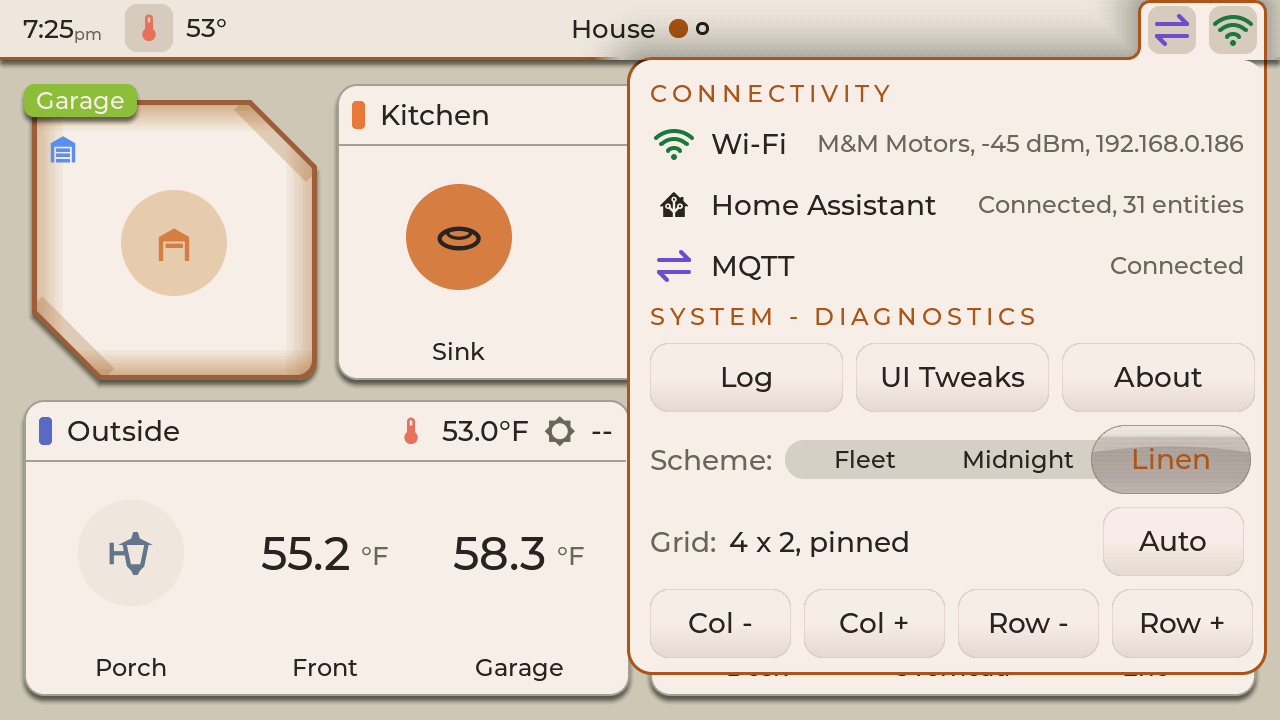
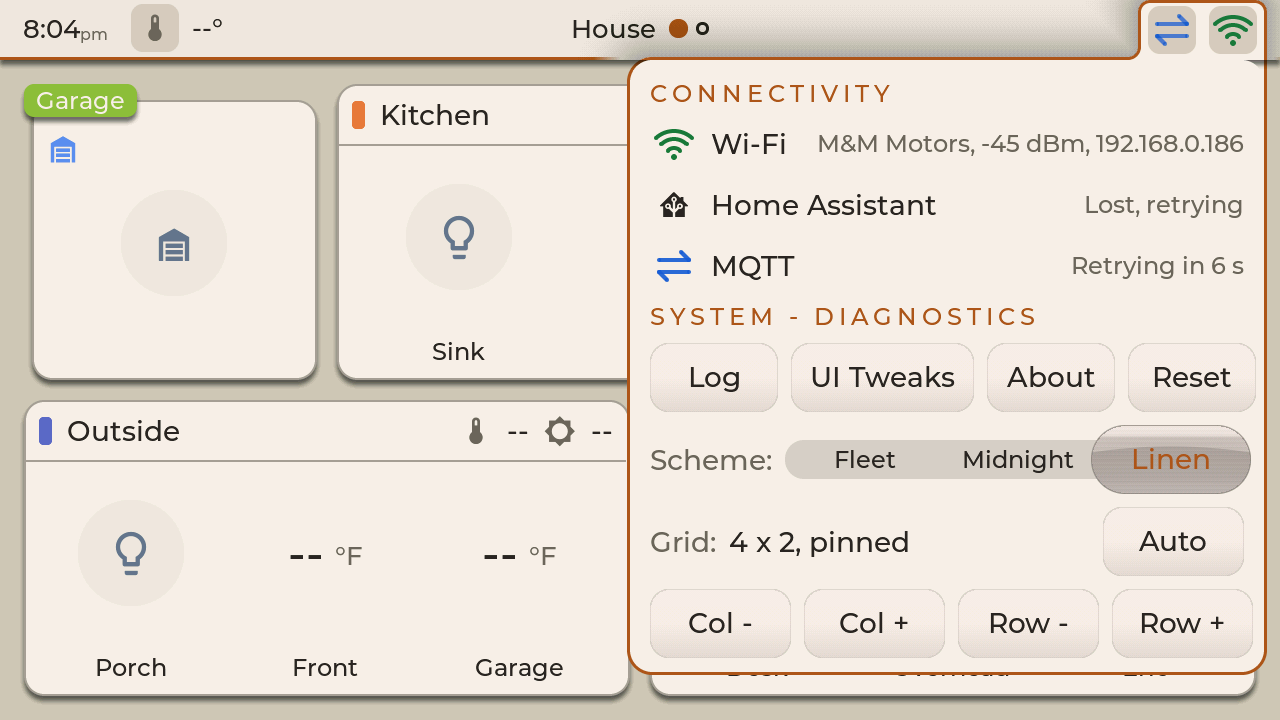
feat(ui): 2.11 round 9 - a development Reset in the system panel
The dashboard and its clusters back to the compiled ones (the owner's
round-7 ask): every card made on the board deleted (page / in entries),
every hide and move undone (removed, hidden), group cards' slots and
present as compiled, every page's kept layout forgotten so each arranges
itself again. Looks, schemes, UI Tweaks and the pins stay.

- CardAdded::resetToCompiled() (a dry run counts), GUIManager::
  resetDashboard() takes the page down, resets, builds it again - no
  restart.
- The system panel's SYSTEM - DIAGNOSTICS row: Log, UI Tweaks, About,
  Reset; a kit dialog says what would go.
- /popup?dash=1|2 and /popup?grid=a|cu|cd|ru|rd (DEBUG_POPUP) drive the
  Reset and the grid pins from a PC.
- Run on a test copy of the P4_5's settings (8 cards, 7 hides and moves,
  4 cluster settings), the file put back: no difference.

LESSONS: the 1060 boot-loops on a software restart (its Wi-Fi co-processor);
restore it without reboot=1 and watchdog-reset it. TEST_2.11 round 9
section 2; HTTP_REFERENCE.

diff --git a/src/UI/Panel_System.cpp b/src/UI/Panel_System.cpp
@@ -47,6 +47,17 @@ static void colUpCb(lv_event_t *)   { if (s_self) s_self->requestGrid(Panel_Syst
 static void rowDownCb(lv_event_t *) { if (s_self) s_self->requestGrid(Panel_System::GridAction::ASPECT_DOWN); }
 static void rowUpCb(lv_event_t *)   { if (s_self) s_self->requestGrid(Panel_System::GridAction::ASPECT_UP); }
 static void gridAutoCb(lv_event_t *) { if (s_self) s_self->requestGrid(Panel_System::GridAction::GRID_AUTO); }
+
+// The development Reset's question (2.11 round 9), on the top layer over the panel.
+static lv_obj_t *s_confirm = nullptr;
+static void confirmClose() {
+    if (s_confirm) { lv_obj_delete(s_confirm); s_confirm = nullptr; }
+}
+static void dashCancelCb(lv_event_t *) { lv_async_call([](void *) { confirmClose(); }, nullptr); }
+static void dashResetCb(lv_event_t *) {
+    lv_async_call([](void *) { confirmClose(); if (s_self) s_self->confirmDashReset(); }, nullptr);
+}
+static void dashAskCb(lv_event_t *) { lv_async_call([](void *) { if (s_self) s_self->askDashReset(); }, nullptr); }
 static void schemeChosen(uint8_t i) { if (s_self) s_self->chooseScheme(i); }
 
 void Panel_System::init(lv_obj_t* parent, Panel_Header* headerRef) {
@@ -129,11 +140,16 @@ void Panel_System::buildContent() {
 
     // --- SYSTEM - DIAGNOSTICS: development tools for now (D-17) ------------
     Kit::drawerTitle(_ui_content, "SYSTEM - DIAGNOSTICS");
+    // Reset (2.11 round 9, the development Reset) asks first: its dialog says
+    // what would go.
     lv_obj_t *r = Kit::drawerRow(_ui_content);
-    const int32_t w3 = (inner - 2 * gap) / 3;
+    const int32_t w4 = (inner - 3 * gap) / 4;
+    const int32_t wT = LV_MAX(w4, Kit::textW("UI Tweaks", UI::type().NAME) + 2 * UI::mm(UI::shape().S5));
+    const int32_t w3 = (inner - 3 * gap - wT) / 3;   // the other three share what UI Tweaks leaves
     Kit::button(r, Kit::ButtonRole::BTN_CANCEL, "Log", w3, btnH, logCb);
-    Kit::button(r, Kit::ButtonRole::BTN_CANCEL, "UI Tweaks", w3, btnH, tweaksCb);
+    Kit::button(r, Kit::ButtonRole::BTN_CANCEL, "UI Tweaks", wT, btnH, tweaksCb);
     Kit::button(r, Kit::ButtonRole::BTN_CANCEL, "About", w3, btnH, aboutCb);
+    Kit::button(r, Kit::ButtonRole::BTN_CANCEL, "Reset", w3, btnH, dashAskCb);
 
     // "Scheme:" and one of three (round 4: the Status bar toggle went - the page
     // panel's Show / Hide is the one way to hide the header).
@@ -151,7 +167,6 @@ void Panel_System::buildContent() {
 
     // The page's grid (2.11 round 9): pinned counts or the arranger's choice, in
     // words, and Auto to take the pins away; then the counts, each press a pin.
-    const int32_t w4 = (inner - 3 * gap) / 4;
     r = Kit::drawerRow(_ui_content);
     lv_label_set_text(Kit::label(r, Kit::KitStyle::KS_LABEL_NAME_DIM), "Grid:");
     _gridVal = Kit::label(r, Kit::KitStyle::KS_LABEL_NAME);
@@ -164,6 +179,34 @@ void Panel_System::buildContent() {
     Kit::button(r, Kit::ButtonRole::BTN_CANCEL, "Col +", w4, btnH, colUpCb);
     Kit::button(r, Kit::ButtonRole::BTN_CANCEL, "Row -", w4, btnH, rowDownCb);
     Kit::button(r, Kit::ButtonRole::BTN_CANCEL, "Row +", w4, btnH, rowUpCb);
+}
+
+void Panel_System::askDashReset() {
+    confirmClose();
+    if (!_expanded) return;
+    static char detail[200];   // the dialog keeps a pointer to its words
+    char brief[48];
+    detail[0] = '\0';
+    if (_dashText) _dashText(brief, sizeof(brief), detail, sizeof(detail));
+    Kit::DialogSpec d = {};
+    d.role    = Kit::DialogRole::DLG_DESTRUCTIVE;
+    d.title   = "Reset the dashboard?";
+    d.body[0] = "The cards and clusters go back to how they were built: cards made on this board are "
+                "deleted, hidden and moved cards come back, clusters lose added members and header "
+                "changes, and every page arranges itself again. Names, labels, tap actions, colors, "
+                "schemes, UI Tweaks and grid pins stay.";
+    d.body[1] = detail[0] ? detail : nullptr;
+    d.buttons[0] = { "Cancel", Kit::ButtonRole::BTN_CANCEL, dashCancelCb };
+    d.buttons[1] = { "Reset", Kit::ButtonRole::BTN_DESTRUCTIVE, dashResetCb };
+    d.nButtons = 2;
+    d.width    = LV_MIN(lv_obj_get_width(lv_screen_active()) * 3 / 4, UI::mm(UI::shape().W_DIALOG_MAX));
+    d.outside  = dashCancelCb;
+    s_confirm = Kit::dialog(d);
+}
+
+void Panel_System::confirmDashReset() {
+    close();
+    if (_onDashReset) _onDashReset();
 }
 
 void Panel_System::chooseScheme(uint8_t i) {
@@ -204,6 +247,7 @@ void Panel_System::toggle() {
         _connMs = millis();
         Kit::drawerOpen(_drawer);
     } else {
+        confirmClose();   // the Reset's question goes with the panel
         Kit::drawerClose(_drawer, true);
     }
 }

diff --git a/src/GUIManagerTweaks.cpp b/src/GUIManagerTweaks.cpp
@@ -9,6 +9,7 @@
 #include <stdlib.h>
 #include <string.h>
 #include "Settings.h"
+#include "Cards/CardAdded.h"     // the development Reset (round 9)
 #include "Cards/CardIcons.h"     // cardLabelMode(), cardSetLabelMode()
 #include "Cards/CardPopup.h"
 #include "UI/Sheet.h"            // windowCloseMs(), sheetBeside()
@@ -108,6 +109,38 @@ void GUIManager::saveGrid() {
     }
     rebuildDashboard();
     Serial.printf("[UI] grid pins -> %u x %u (0: the arranger's)\n", (unsigned)_pinCols, (unsigned)_pinRows);
+}
+
+// --- The development Reset (the system panel's, 2.11 round 9) ----------------------
+// THE DASHBOARD AND ITS CLUSTERS BACK TO THE COMPILED ONES (the owner: "a Reset
+// button would help during development"): CardAdded's reset - every card made
+// here deleted, every hide and move undone, the clusters' members and header
+// slots as built - and every page's kept arrangement forgotten, so each arranges
+// itself again. The looks, the schemes, UI Tweaks and the pins stay. The page is
+// taken down first: a card points at a record CardAdded reads again.
+void GUIManager::resetDashboard() {
+    savePageState();
+    destroyDashboard();
+    CardAdded::resetToCompiled(true);
+    for (uint8_t i = 0; i < _nPages; i++)
+        if (_pages[i].spec && _pages[i].spec->slug) Settings::setPage(_pages[i].spec->slug, "layout", nullptr);
+    Settings::save();
+    CardAdded::takeChanged();   // built now, not again on the next pass
+    rebuildDashboard();
+}
+
+// The system panel's Dashboard line, and the dialog's count of what goes.
+void GUIManager::dashboardText(char *brief, size_t nb, char *detail, size_t nd) {
+    const CardAdded::ResetCount c = CardAdded::resetToCompiled(false);
+    const unsigned all = (unsigned)c.made + c.hidden + c.members + c.clusters;
+    if (!all) snprintf(brief, nb, "as built");
+    else      snprintf(brief, nb, "%u change%s", all, all == 1 ? "" : "s");
+    if (!all) snprintf(detail, nd, "Nothing here differs from the dashboard as built.");
+    else      snprintf(detail, nd, "On this board now: %u card%s made here, %u hidden or moved, %u cluster "
+                                   "member%s hidden or moved out, %u cluster setting%s.",
+                       (unsigned)c.made, c.made == 1 ? "" : "s", (unsigned)c.hidden,
+                       (unsigned)c.members, c.members == 1 ? "" : "s",
+                       (unsigned)c.clusters, c.clusters == 1 ? "" : "s");
 }
 
 // --- The card looks (UI Tweaks) ----------------------------------------------------

diff --git a/src/Cards/CardAdded.cpp b/src/Cards/CardAdded.cpp
@@ -449,4 +449,58 @@ bool takeChanged() {
     return c;
 }
 
+namespace {
+// The ids carrying a key, collected first: an entry is never changed while the
+// file is being walked.
+constexpr uint8_t RESET_IDS = 64;
+struct Ids { char id[RESET_IDS][CARD_ID_MAX + 1]; uint8_t n; };
+void collect(const char *id, const char *, void *p) {
+    Ids &x = *(Ids *)p;
+    if (x.n < RESET_IDS) copy(x.id[x.n++], sizeof(x.id[0]), id);
+}
+}  // namespace
+
+ResetCount resetToCompiled(bool apply) {
+    ResetCount c = {};
+    Ids *ids = new Ids();   // ~2.6 KB, for the moment it takes
+    if (!ids) return c;
+    // Cards made here: on a page ("page") or in a cluster ("in"), deleted whole.
+    static const char *const MADE[] = { "page", "in" };
+    for (const char *key : MADE) {
+        ids->n = 0;
+        Settings::forEachCardWith(key, collect, ids);
+        for (uint8_t i = 0; i < ids->n; i++) {
+            c.made++;
+            if (apply) Settings::dropCard(ids->id[i]);
+        }
+    }
+    // Then what was done to the compiled ones: hidden or moved off a page, a
+    // member hidden or moved out, a group card's slots and presentation.
+    struct Undo { const char *key; uint8_t ResetCount::*count; };
+    static const Undo UNDO[] = {
+        { "removed", &ResetCount::hidden }, { "hidden", &ResetCount::members },
+        { "slots", &ResetCount::clusters }, { "present", &ResetCount::clusters },
+    };
+    for (const Undo &u : UNDO) {
+        ids->n = 0;
+        Settings::forEachCardWith(u.key, collect, ids);
+        for (uint8_t i = 0; i < ids->n; i++) {
+            char v[4];
+            const char *id = ids->id[i];
+            if (Settings::card(id, "page", v, sizeof(v)) || Settings::card(id, "in", v, sizeof(v))) continue;   // made here: counted above
+            c.*u.count += 1;
+            if (apply) Settings::setCard(id, u.key, nullptr);
+        }
+    }
+    delete ids;
+    if (apply) {
+        begin(s_compiled);   // the records again: none made here now
+        s_changed = true;
+        Serial.printf("[CardAdded] reset to the compiled dashboard: %u made here deleted, %u hidden or moved back, "
+                      "%u members, %u cluster settings\n", (unsigned)c.made, (unsigned)c.hidden,
+                      (unsigned)c.members, (unsigned)c.clusters);
+    }
+    return c;
+}
+
 }  // namespace CardAdded

diff --git a/src/GUIManagerHeader.cpp b/src/GUIManagerHeader.cpp
@@ -348,6 +348,26 @@ const char *GUIManager::headerDebug(const char *slotName, int glyphs, int pageHd
         if (_pnlSystem.isExpanded()) _pnlSystem.close();
         return "slot: closed";
     }
+    // /popup?dash=1|2 (2.11 round 9): the development Reset - 1 its dialog, over
+    // the system panel; 2 done without asking (Saved). /popup?grid=: the panel's
+    // Auto (a) and Col / Row (cu, cd, ru, rd) - each Saved, as on the glass.
+    if (!strncmp(slotName, "dash", 4)) {
+        if (slotName[4] == '2') { resetDashboard(); return "dashboard: reset to the compiled one (saved)"; }
+        closeSlotPanel(false);
+        if (!_pnlSystem.isExpanded()) _pnlSystem.toggle();
+        _pnlSystem.askDashReset();
+        return "dashboard: the Reset's dialog";
+    }
+    if (!strncmp(slotName, "grid", 4)) {
+        const char *g = slotName + 4;
+        if      (!strcmp(g, "a"))  gridAuto();
+        else if (!strcmp(g, "cu")) nudgeColumns(+1);
+        else if (!strcmp(g, "cd")) nudgeColumns(-1);
+        else if (!strcmp(g, "ru")) nudgeRows(+1);
+        else if (!strcmp(g, "rd")) nudgeRows(-1);
+        snprintf(out, sizeof(out), "grid pins: %u x %u (0: the arranger's; saved)", (unsigned)_pinCols, (unsigned)_pinRows);
+        return out;
+    }
     // /popup?scheme=N: the scheme on every page, as the system panel shows it,
     // NOT saved - a capture leaves the owner's choice in the file.
     if (!strncmp(slotName, "scheme", 6)) {

diff --git a/include/UI/Panel_System.h b/include/UI/Panel_System.h
@@ -90,6 +90,14 @@ public:
     void setGridText(GridText cb) { _gridText = cb; }
     void refreshGrid();
 
+    // THE DEVELOPMENT RESET (2.11 round 9): SYSTEM - DIAGNOSTICS' Reset and the
+    // dialog that asks first - `detail` is its count of what goes ("brief", "as
+    // built" / "5 changes", for a line when there is room for one).
+    using DashText = std::function<void(char *brief, size_t nBrief, char *detail, size_t nDetail)>;
+    void setDashboard(DashText text, Action onReset) { _dashText = text; _onDashReset = onReset; }
+    void askDashReset();         // the dialog
+    void confirmDashReset();     // its Reset: the panel closes, GUIManager resets
+
     // CONNECTIVITY's sources: the two glyphs' managers, and its three lines'
     // words - Wi-Fi, Home Assistant, MQTT - asked once a second while it shows.
     void setLinks(ConnectivityManager *conn, MqttManager *mqtt) { _conn = conn; _mqtt = mqtt; }
@@ -133,6 +141,8 @@ private:
     lv_obj_t *_connVal[3] = {};                      // Wi-Fi, HA, MQTT: their words
     lv_obj_t *_gridVal = nullptr;                    // the page's grid, in words
     GridText  _gridText;
+    DashText  _dashText;
+    Action    _onDashReset;
     Kit::Selector _schemeSel;
     Widget_ConnStatus _wifiGlyph;
     Widget_MqttStatus _linkGlyph;

diff --git a/src/Cards/Popup/PopupDebug.cpp b/src/Cards/Popup/PopupDebug.cpp
@@ -200,6 +200,11 @@ esp_err_t handlePopup(httpd_req_t *req) {
         if (httpd_query_key_value(q, "about", v, sizeof(v)) == ESP_OK) a.about = atoi(v);
         if (httpd_query_key_value(q, "drawer", v, sizeof(v)) == ESP_OK) a.drawer = atoi(v);
         if (httpd_query_key_value(q, "slot", v, sizeof(v)) == ESP_OK) snprintf(a.slot, sizeof(a.slot), "%s", v);
+        // 2.11 round 9, through the header hook as slot= is: the development Reset
+        // (dash=1 its dialog, 2 done) and the system panel's grid (grid=a Auto,
+        // cu / cd Col + / -, ru / rd Row + / -).
+        if (httpd_query_key_value(q, "dash", v, sizeof(v)) == ESP_OK) snprintf(a.slot, sizeof(a.slot), "dash%.1s", v);
+        if (httpd_query_key_value(q, "grid", v, sizeof(v)) == ESP_OK) snprintf(a.slot, sizeof(a.slot), "grid%.2s", v);
         if (httpd_query_key_value(q, "glyphs", v, sizeof(v)) == ESP_OK) a.glyphs = atoi(v);
         if (httpd_query_key_value(q, "pagehdr", v, sizeof(v)) == ESP_OK) a.pageHdr = atoi(v);
         if (httpd_query_key_value(q, "alarm", v, sizeof(v)) == ESP_OK) a.alarm = atoi(v);

diff --git a/include/Cards/CardAdded.h b/include/Cards/CardAdded.h
@@ -130,4 +130,16 @@ uint8_t pool(const PageSpec &page, PoolItem *out, uint8_t cap);
 // to show it (GUIManager, once no card window is open).
 bool takeChanged();
 
+// --- THE DEVELOPMENT RESET (2.11 round 9, the owner: "the dashboard and its
+// clusters back as they were built") --------------------------------------------
+// Every card made on this board deleted, entry and settings (cards added to a
+// page, copies in clusters, members moved out); every hide and move undone
+// ("removed", a member's "hidden"); every group card's header slots and
+// presentation as compiled ("slots", "present"). The looks stay - names, card
+// labels, tap actions, styles, groups and colours. `apply` false only counts.
+// After applying, the records are read again: call with no page built (a Card
+// points at a record's id).
+struct ResetCount { uint8_t made, hidden, members, clusters; };
+ResetCount resetToCompiled(bool apply);
+
 }  // namespace CardAdded

diff --git a/include/GUIManager.h b/include/GUIManager.h
@@ -164,6 +164,10 @@ private:
     // rises under its window.
     void applySavedScheme();
     void saveGrid();
+    // The system panel's development Reset (2.11 round 9): the dashboard and its
+    // clusters back to the compiled ones, the looks and pins kept; its line's words.
+    void resetDashboard();
+    void dashboardText(char *brief, size_t nb, char *detail, size_t nd);
     template <typename F> void everyPage(F f) { for (uint8_t i = 0; i < _nPages; i++) f(_pages[i]); }
     friend struct GUITweaks;
     bool        _deckRaised   = false;   // the deck is up under UI Tweaks

diff --git a/src/GUIManager.cpp b/src/GUIManager.cpp
@@ -941,6 +941,9 @@ void GUIManager::begin() {
             snprintf(out, n, "auto, %u x %u units", (unsigned)_page->unitCols(), (unsigned)_page->unitRows());
         else                       snprintf(out, n, "auto");
     });
+    // Its development Reset (round 9): GUIManagerTweaks.cpp.
+    _pnlSystem.setDashboard([this](char *b, size_t nb, char *d, size_t nd) { dashboardText(b, nb, d, nd); },
+                            [this]() { resetDashboard(); });
 
     // The card page's own Dump button runs the same report the System panel's
     // does, Serial echo and all.

diff --git a/docs/TEST_2.11.md b/docs/TEST_2.11.md
@@ -1014,3 +1014,52 @@ page is built again):
    were chosen before the arranger could choose. Neither 1060 picture is even yet: pinned, Front
    Door Temperature has three times Thermo's area; on Auto Thermo is the large one. The size knob
    (75) is the one that would even them, and the playground is the place to try it.
+
+**A bug of mine, found and fixed this round**: the first build's tile rule (`Layout::tileGrid()`)
+stopped at one column whenever the arranger gave no count - every cluster on a page that flowed
+(the second or two while a page arranges, or the arranger off) stacked its tiles. The host tests
+caught it after the first flash; the boards were flashed again with the fix (`r9b`).
+
+## 2. A development Reset
+
+**Where**: the system panel, SYSTEM - DIAGNOSTICS: **Log, UI Tweaks, About, Reset** (D-17 made that
+row the place for development tools). A line of its own did not fit the P4_5's height with the new
+Grid line, so Reset joined the buttons; its dialog says what would go.
+
+**What it does** - the dashboard and its clusters back to the compiled ones:
+
+| Goes | Stays |
+|---|---|
+| every card made on this board: added to a page, copied into a cluster, moved out of one (their entries and settings) | every look: names, card labels, entity labels, tap actions, units, density, Card UI |
+| every hide and move: hidden cards and cluster members shown again, moved cards back where they were built | groups and their colours, cluster header styles and icons, a cluster's Rename |
+| clusters' header slots and presentation as compiled (`slots`, `present`) | schemes, UI Tweaks, the windows' timeout |
+| every page's kept arrangement: each arranges itself again | **the pages' pins** (Col / Row) - Auto is their reset |
+
+![The Reset's dialog](followups/211_r9_reset_dialog_p45.png)
+![The P4_5 after the Reset (a test copy; Home Assistant was down, hence the dashes)](followups/211_r9_after_reset_p45.png)
+![The system panel](followups/211_r9_grid_row_p45.png)
+
+Run once, on a test copy of the P4_5's settings: 8 cards made here deleted, 7 hides and moves undone,
+3 clusters' header slots and 1 member as built; the House page arranged itself again in 29 ms (8
+blocks on your pinned 4 x 2). Then your file was put back: no difference.
+
+| # | Do this | PASS if |
+|---|---|---|
+| N1 | The system panel - Reset | the dialog, counting what would go; **Cancel** leaves everything as it was |
+| N2 | (On a board whose dashboard you can lose - or after `save_settings.ps1`) Reset - Reset | the panel closes; every page is the compiled dashboard, arranged again; your scheme, names and pins are as they were |
+
+**Choices that were mine (item 6):** the pins stay (they are a choice about the page, and Auto
+already resets them); a cluster's Rename and header style stay (looks); groups made on the board
+stay even if no card wears them now; no restart (the page is taken down, the records read again,
+the page built - the 1060 boot-loops on a software restart, below).
+
+**Question:** is the system panel the right home, or would you rather have it in UI Tweaks beside
+Reset all (one place for both resets)? *My recommendation: the system panel* - UI Tweaks' Reset all is
+about looks, and two Reset buttons side by side invite the wrong one.
+
+**Found while testing**: the 1060 boot-looped after a software restart (a settings copy put back with
+`?reboot=1`): its Wi-Fi co-processor stopped answering at boot, and the board restarted itself every
+~20 s, off the network. A watchdog reset (`esptool --after watchdog-reset`) brought it back; LESSONS
+says how to restore it from now on. Why the co-processor does not come back after a software
+restart is unexplained; this round did not change the restart path (the settings restore's), and
+the P4_5 and the 4B restart cleanly.

diff --git a/docs/HTTP_REFERENCE.md b/docs/HTTP_REFERENCE.md
@@ -241,7 +241,7 @@ curl "http://fleet-ws-p4-5/panel?flash=20&nvs=1"     # scratch NVS only
 **`-D DEBUG_POPUP` only** - the owner's local lines on WS_P4_5, WS_P4_4B and CYD_P4_1060, never
 committed. `src/Cards/Popup/PopupDebug.cpp`. What `scripts/ui_golden.py` drives. **One action per
 request**: when a query has several keys, the first in this order acts and the rest are ignored -
-`rows`, `close`, `about`, `drawer`, `tree`, `mem`/`sparks`, `addcard`/`removecard`, `pause`/`member`,
+`rows`, `close`, `about`, `drawer`, `slot` (and round 9's `dash`, `grid`, which go the same way), `tree`, `mem`/`sparks`, `addcard`/`removecard`, `pause`/`member`,
 `scheme`, `show`, `look`, `scene`, `power`, `view`, `set`, `ctl`, `deck`, the History keys
 (`span`, `more`, `row`, `dur`, `chips`, then `x`, `hist`), `clabel`, `groups`, `tap`, then `card`.
 The reply is text. `503 "Busy"` while another `/popup` runs; `503 "did not pick it up within 3 s"`
@@ -319,6 +319,9 @@ order.
 | `/popup?join=2+N` (`&mv=1`) | its Add card to dashboard with group N chosen (0 the group card's, 1 the area's, then the others); `mv=1` Move, a tile's only - the window closes | a new card entry with `page`, `after`, `entity`, `from` (the tile); Move also the tile's `hidden` = `moved` |
 | `/popup?removecard=6` / `7` / `8` | (K112) on a card made on the glass: `6` its Remove from the page, no dialog; `7` that dialog; on a card moved out of a cluster, `8` its Move back to the cluster - each closes the window | `6`: the card's entry deleted; `8`: the entry deleted and the tile's `hidden` cleared |
 | `/popup?kbpress=1` | the keyboard's Save (2.11, K95) | what it was opened for: a cluster's `label_text` (none: its group's name), a card's `name`, or its card label's `label_text` - when the window closes |
+| `/popup?grid=a\|cu\|cd\|ru\|rd` | (2.11 round 9) the system panel's **Auto**, **Col +**, **Col -**, **Row +**, **Row -** on the page showing | the page's `cols` / `rows` pins (Auto removes both); the page arranges again |
+| `/popup?dash=1` | (round 9) the system panel opens with the development **Reset**'s dialog, which counts what would go - nothing changes unless its Reset is tapped (`slot=-1` takes it down) | nothing |
+| `/popup?dash=2` | **the Reset done, no dialog**: every card made on the board deleted (`page` / `in` entries), every hide and move undone (`removed`, `hidden`), group cards' `slots` and `present` removed, every page's `layout` removed. **Never on the owner's real settings** - a test copy, then `restore_settings.ps1` | as described; the looks, schemes, UI Tweaks and pins stay |
 
 ### **Device** - these command real lights and scenes
 

diff --git a/docs/design/ui-architecture.md b/docs/design/ui-architecture.md
@@ -37,7 +37,7 @@ whose stack is in internal RAM - the settings task.
 | the window frame | `include/UI/Sheet.h`, `src/UI/Kit/KitSheet.cpp` (frame, auto-close, the tap catcher), `KitSheetPanels.cpp` (the two folder panels), `KitSparks.cpp` |
 | the card window's contents | `src/Cards/CardPopup.cpp` (the client: tabs, views, open/close) and `src/Cards/Popup/` - one file per concern, sharing `PopupState.h`: controls and the light hero (`PopupControls`, `PopupLight`, `PopupDeck`), `PopupScenes`, `PopupMembers`, History (`PopupHistory`, `...Chart`, `...Activity`), `PopupProps`, `PopupCardUi` (Card UI, 2.8 round 3), a cluster's window `PopupCluster` (2.11, K104), Visibility, Add to a cluster and "which group?" `PopupVisibility` (2.11, K96), the panels' rows (`PopupSettingsRows`, `PopupSideRows`, `PopupPanels`), `PopupDialog` (Hide, Remove this copy), the hold (`PopupHold`), helpers (`PopupCommon`), and the PC's handles (`PopupDebug`, `PopupTree`) |
 | typing words (a name) | `Kit::keyboard()`, `src/UI/Kit/KitKeyboard.cpp` (2.11, K95); `components.md` "Keyboard" |
-| a card hidden from its page, a copy in a cluster | `Cards/CardAdded` (`hide()`, `restore()`, `pool()`; `addTo()`, `membersIn()`); the page's list in `src/UI/SlotPanels.cpp`, filled in `GUIManagerHeader.cpp` |
+| a card hidden from its page, a copy in a cluster | `Cards/CardAdded` (`hide()`, `restore()`, `pool()`; `addTo()`, `membersIn()`); the page's list in `src/UI/SlotPanels.cpp`, filled in `GUIManagerHeader.cpp`; the development Reset (2.11 round 9) `CardAdded::resetToCompiled()`, run by `GUIManager::resetDashboard()` from the system panel |
 | where cards go on a page | `include/Layout/Layout.h` (`FlowEngine`), `src/Cards/CardPage.cpp`; the engines to come: `layout-engines.md` |
 | a group card, a cluster and its mini tiles (2.11) | the spec: `CardSpec::members` / `present` / `slots` (`PageSpec.h`), the House page's in `Dashboard_HA.h`; built by `CardPage::makeGroupCard()`; drawn by `Cards/ClusterCard` and `Cards/MiniTile.cpp`; the arithmetic `include/Layout/Cluster.h` (host-tested); `group-cards.md` §6-7 |
 | the arranger (#78, K105) | `include/Layout/Arranger.h` (pure, host-tested against the playground), `Cards/PageArranger` (kept answers, the background run), `CardPage::arrangePage()`; `layout-engines.md` "As built" |
